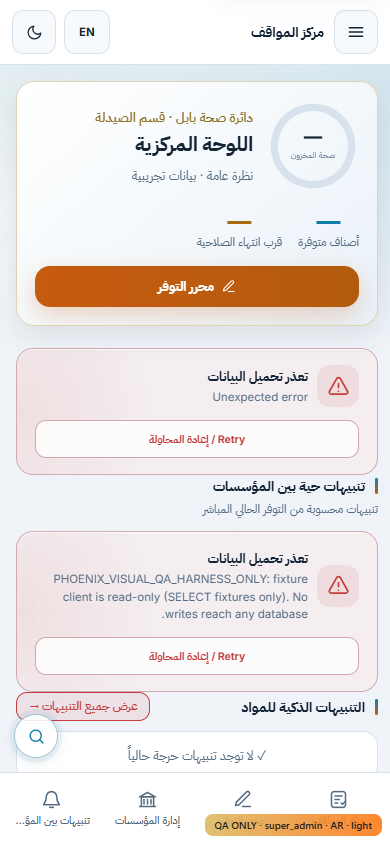
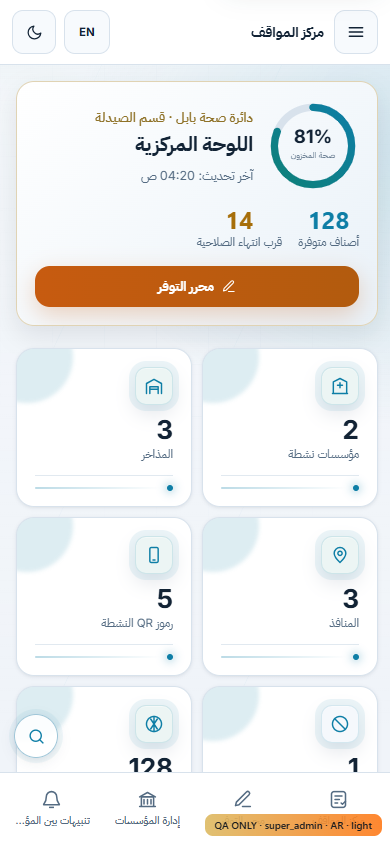
fix(design): Phase D — populated dashboard evidence via DEV-only fixtures
The prior dashboard captures showed only error states because the read-only
fixture client had no fixtures for the dashboard's RPCs. Adds DEV-only fixtures
matching the real read-only RPC response schemas:

  - rpc:phoenix_get_dashboard_condition_counts  → { available, low_stock,
    missing, near_expiry, surplus } (object) — hero ring + condition tiles
  - rpc:phoenix_get_institution_condition_counts → [{ organization_id, available,
    low, missing }] — Institution Status cards
  - rpc:phoenix_get_live_inter_institution_alerts_with_state → { ok, alerts, … }
    — the live-alerts widget's clean empty state (no error banner)
  - qr_tokens + institution_item_status_reports table rows — QR / status tiles

Widens QA_FIXTURES to hold array OR object RPC payloads (matching each RPC's
real shape) and coerces `.from()` reads to arrays. The captured dashboard now
shows the populated hero (ring 81% = 128/(128+22+9), confirming stockHealthPercent
end-to-end), all condition tiles, and status reports — no fabricated production
data; the fixtures live only under src/features/qa.

Re-ran qa-harness-production-safety (prod build, 0 markers) — PASS. Verified by
grep of the production dist that every QA-only token (qa-org-a1, qa-qr-1,
createQaFixtureClient, QA_HARNESS_MARKER, __installQaSupabaseClient, QA_FIXTURES,
fixture names) is absent; the only shared token is the real RPC name the
production service legitimately calls.

diff --git a/src/features/qa/qaData.ts b/src/features/qa/qaData.ts
@@ -12,10 +12,16 @@ const QA = 'QA';
 const ORG_A = 'qa-org-a1';
 const ORG_B = 'qa-org-b2';
 
-export const QA_FIXTURES: Record<string, QaRow[]> = {
+/**
+ * Fixtures for the fixture client. Table keys hold row arrays (read by
+ * `.from(t)`); `rpc:<name>` keys hold whatever the real read RPC returns — an
+ * array OR an object — matching each RPC's actual response schema so screens
+ * render their POPULATED state, not an error. Values are obviously synthetic.
+ */
+export const QA_FIXTURES: Record<string, unknown> = {
   organizations: [
-    { id: ORG_A, name: 'QA · Al-Hilla Teaching Hospital', name_ar: 'QA · مستشفى الحلة التعليمي', status: 'active', kind: 'institution' },
-    { id: ORG_B, name: 'QA · Al-Imam Al-Sadiq Hospital', name_ar: 'QA · مستشفى الإمام الصادق', status: 'active', kind: 'institution' },
+    { id: ORG_A, name: 'QA · Al-Hilla Teaching Hospital', name_ar: 'QA · مستشفى الحلة التعليمي', code: 'QA-A', city: 'Al-Hilla', status: 'active', kind: 'institution' },
+    { id: ORG_B, name: 'QA · Al-Imam Al-Sadiq Hospital', name_ar: 'QA · مستشفى الإمام الصادق', code: 'QA-B', city: 'Al-Hilla', status: 'active', kind: 'institution' },
   ],
   warehouses: [
     { id: 'qa-wh-central', name: 'QA · Central Pharmacy Store', name_ar: 'QA · مخزن قسم الصيدلة', warehouseKind: 'central', status: 'active', organization_id: null },
@@ -32,4 +38,48 @@ export const QA_FIXTURES: Record<string, QaRow[]> = {
     { id: 'qa-user-2', full_name: `${QA} · أمين مذخر`, role: 'warehouse_officer', status: 'active', organization_id: ORG_A },
     { id: 'qa-user-3', full_name: `${QA} · أمين منفذ (موقوف)`, role: 'outlet_officer', status: 'suspended', organization_id: ORG_A },
   ],
+
+  // QR tokens — drives the active/disabled QR tiles (counted head-only).
+  qr_tokens: [
+    { id: 'qa-qr-1', status: 'active', organization_id: ORG_A },
+    { id: 'qa-qr-2', status: 'active', organization_id: ORG_A },
+    { id: 'qa-qr-3', status: 'active', organization_id: ORG_B },
+    { id: 'qa-qr-4', status: 'active', organization_id: ORG_B },
+    { id: 'qa-qr-5', status: 'active', organization_id: ORG_A },
+    { id: 'qa-qr-6', status: 'disabled', organization_id: ORG_B },
+  ],
+
+  // Manual status reports — drives the "Status Reports" summary tiles
+  // (getStatusReportCounts reads status_type + is_active).
+  institution_item_status_reports: [
+    { id: 'qa-sr-1', status_type: 'scarce', is_active: true, organization_id: ORG_A },
+    { id: 'qa-sr-2', status_type: 'scarce', is_active: true, organization_id: ORG_B },
+    { id: 'qa-sr-3', status_type: 'surplus', is_active: true, organization_id: ORG_A },
+    { id: 'qa-sr-4', status_type: 'near_expiry', is_active: true, organization_id: ORG_A },
+    { id: 'qa-sr-5', status_type: 'missing', is_active: true, organization_id: ORG_B },
+    { id: 'qa-sr-6', status_type: 'scarce', is_active: false, organization_id: ORG_A },
+  ],
+
+  // ── Read RPC fixtures (shapes match the real read-only RPCs) ──────────────
+
+  // phoenix_get_dashboard_condition_counts → a single object of per-condition
+  // COUNTS. Drives the hero stock-health ring and the condition tiles.
+  // ring = 128 / (128 + 22 + 9) = 80.5% → 81%.
+  'rpc:phoenix_get_dashboard_condition_counts': {
+    available: 128, low_stock: 22, missing: 9, near_expiry: 14, surplus: 6,
+  },
+
+  // phoenix_get_institution_condition_counts → one row per org. Drives the
+  // Institution Status cards' available/low/missing readouts.
+  'rpc:phoenix_get_institution_condition_counts': [
+    { organization_id: ORG_A, available: 76, low: 8, missing: 3 },
+    { organization_id: ORG_B, available: 52, low: 14, missing: 6 },
+  ],
+
+  // phoenix_get_live_inter_institution_alerts_with_state → an object with an
+  // `ok` flag and an `alerts` array. Empty list → the widget's clean "no live
+  // alerts" state (a valid populated state, not an error banner).
+  'rpc:phoenix_get_live_inter_institution_alerts_with_state': {
+    ok: true, alerts: [], computed_at: '2026-07-20T09:00:00Z',
+  },
 };

diff --git a/src/features/qa/qaFixtureClient.ts b/src/features/qa/qaFixtureClient.ts
@@ -104,13 +104,15 @@ class QaQueryBuilder implements PromiseLike<QaResult> {
 export function createQaFixtureClient(): SupabaseClient {
   const client = {
     from(table: string) {
-      return new QaQueryBuilder(QA_FIXTURES[table] ?? []);
+      const rows = QA_FIXTURES[table];
+      return new QaQueryBuilder(Array.isArray(rows) ? (rows as QaRow[]) : []);
     },
     rpc(name: string) {
-      // SELECT-only: read RPCs registered in fixtures return data; anything
-      // else (mutations, unknown) resolves to the explicit QA read-only error.
+      // SELECT-only: read RPCs registered in fixtures return their data (an
+      // array OR an object, matching the real RPC's schema); anything else
+      // (mutations, unknown) resolves to the explicit QA read-only error.
       const fixture = QA_FIXTURES[`rpc:${name}`];
-      if (fixture) return Promise.resolve(ok(fixture));
+      if (fixture !== undefined) return Promise.resolve(ok(fixture));
       return Promise.resolve({ data: null, error: READONLY_ERROR, count: null });
     },
     // Auth surface the app touches at render time — inert, no network.
